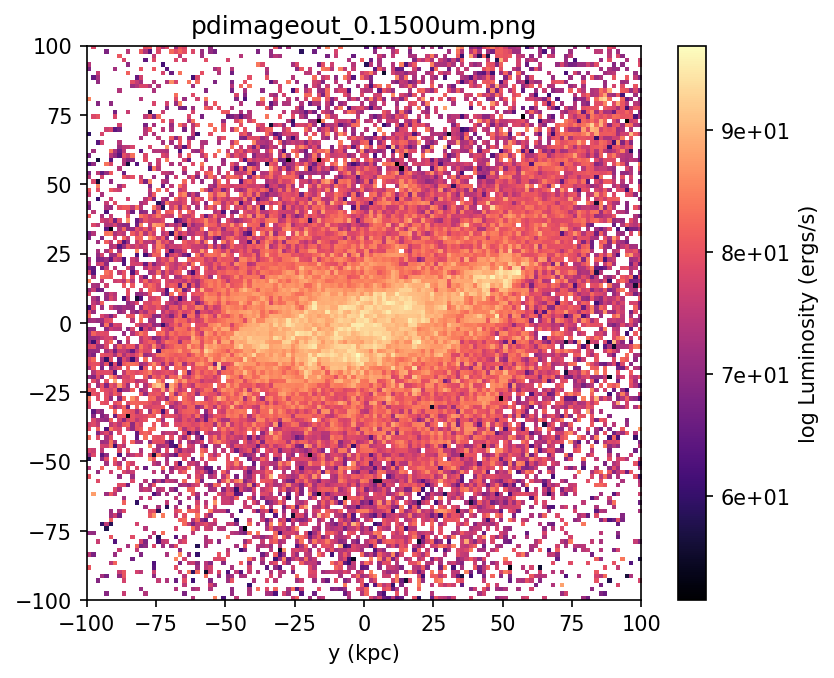
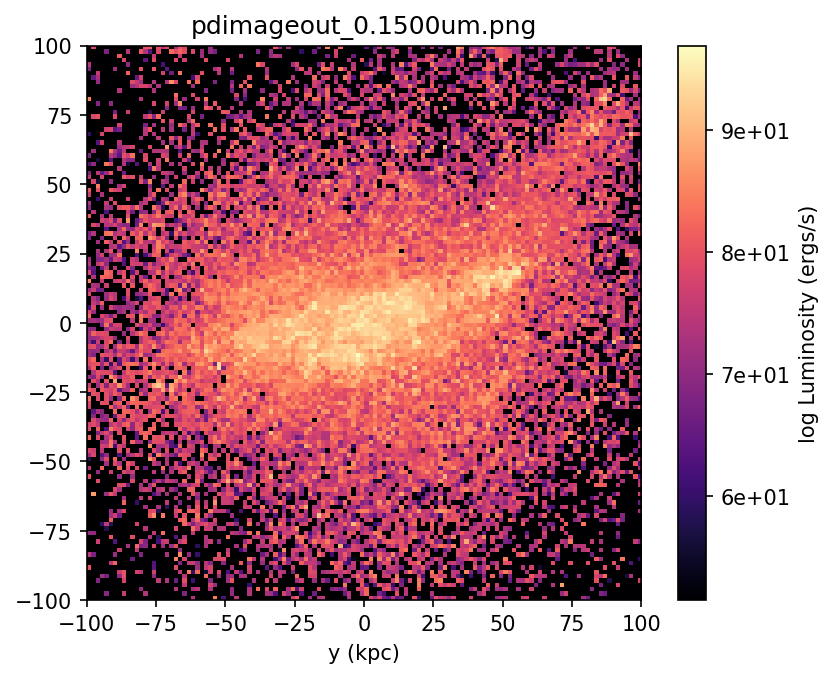
updated plots

diff --git a/make_image.py b/make_image.py
@@ -50,7 +50,9 @@ if args.dat:
     np.savetxt(outf, image_data)
 
 #plot the beast
-cax = ax.imshow(np.log(image_data), cmap=plt.cm.magma, origin='lower', 
+cmap = plt.cm.magma
+cmap.set_bad(color=cmap(0.0))
+cax = ax.imshow(np.log(image_data), cmap=cmap, origin='lower', 
                 extent=[-w.value, w.value, -w.value, w.value], vmin=args.vmin,
                 vmax=args.vmax)
 
